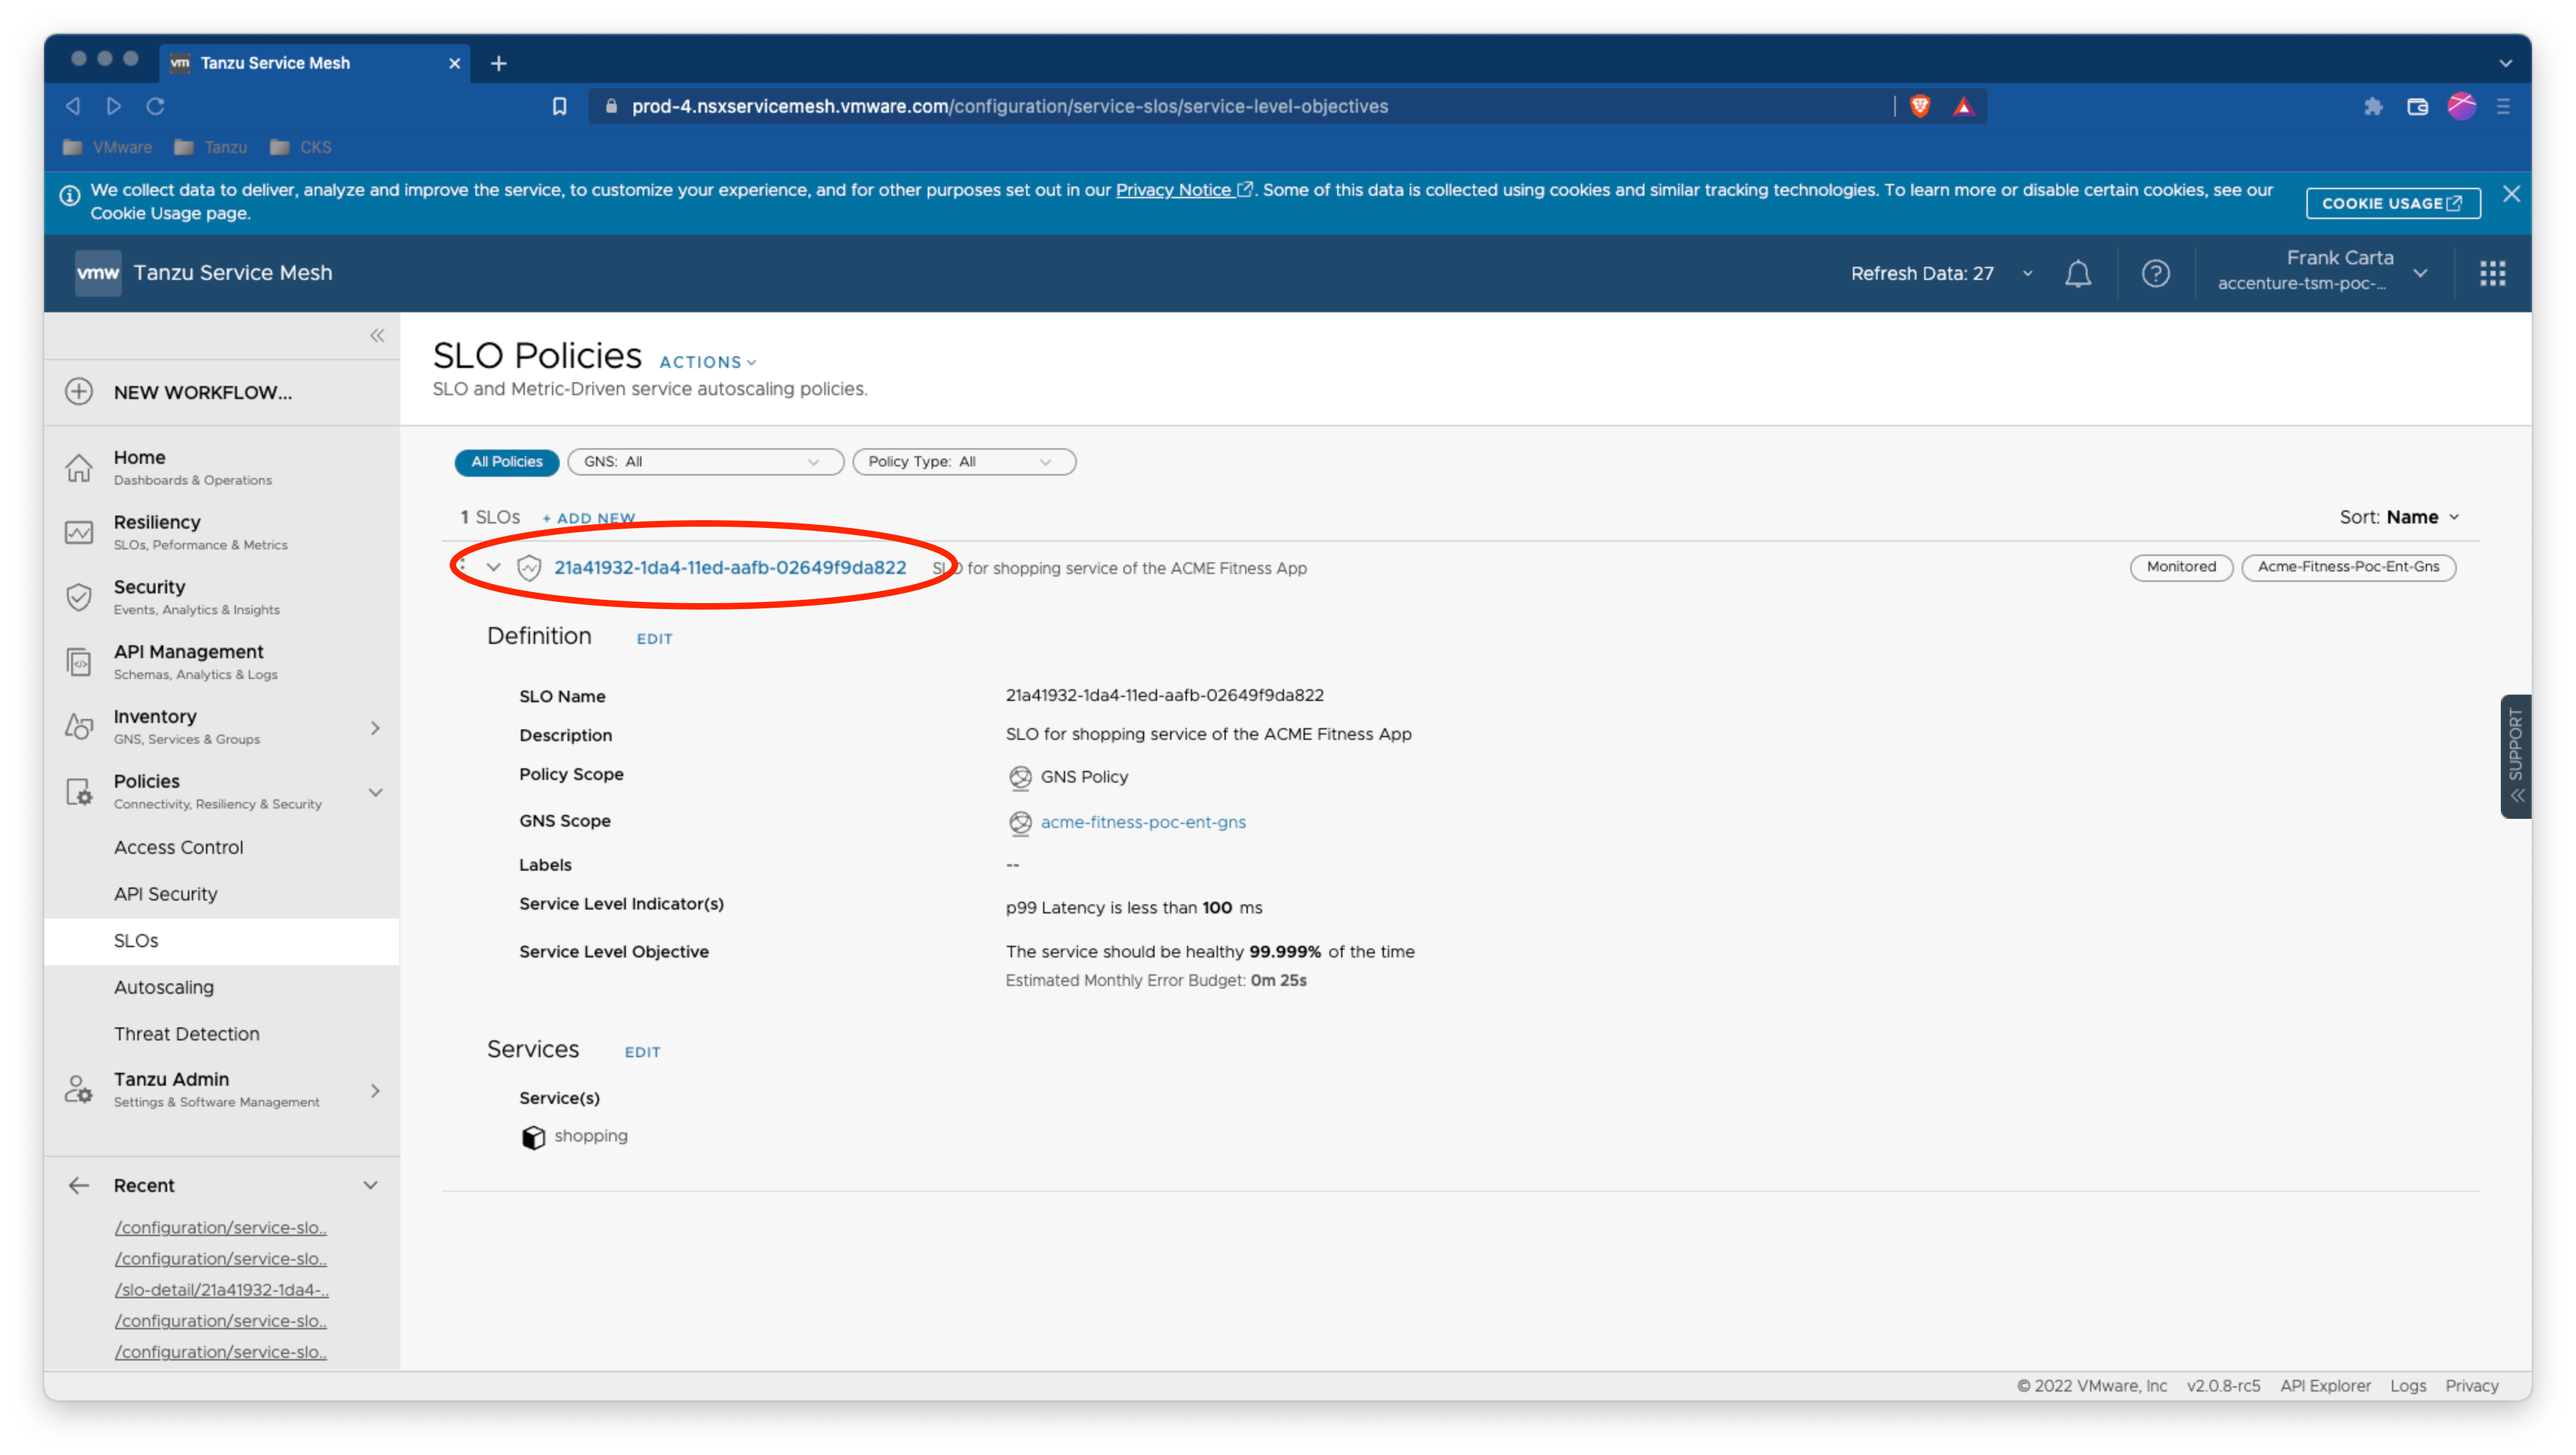
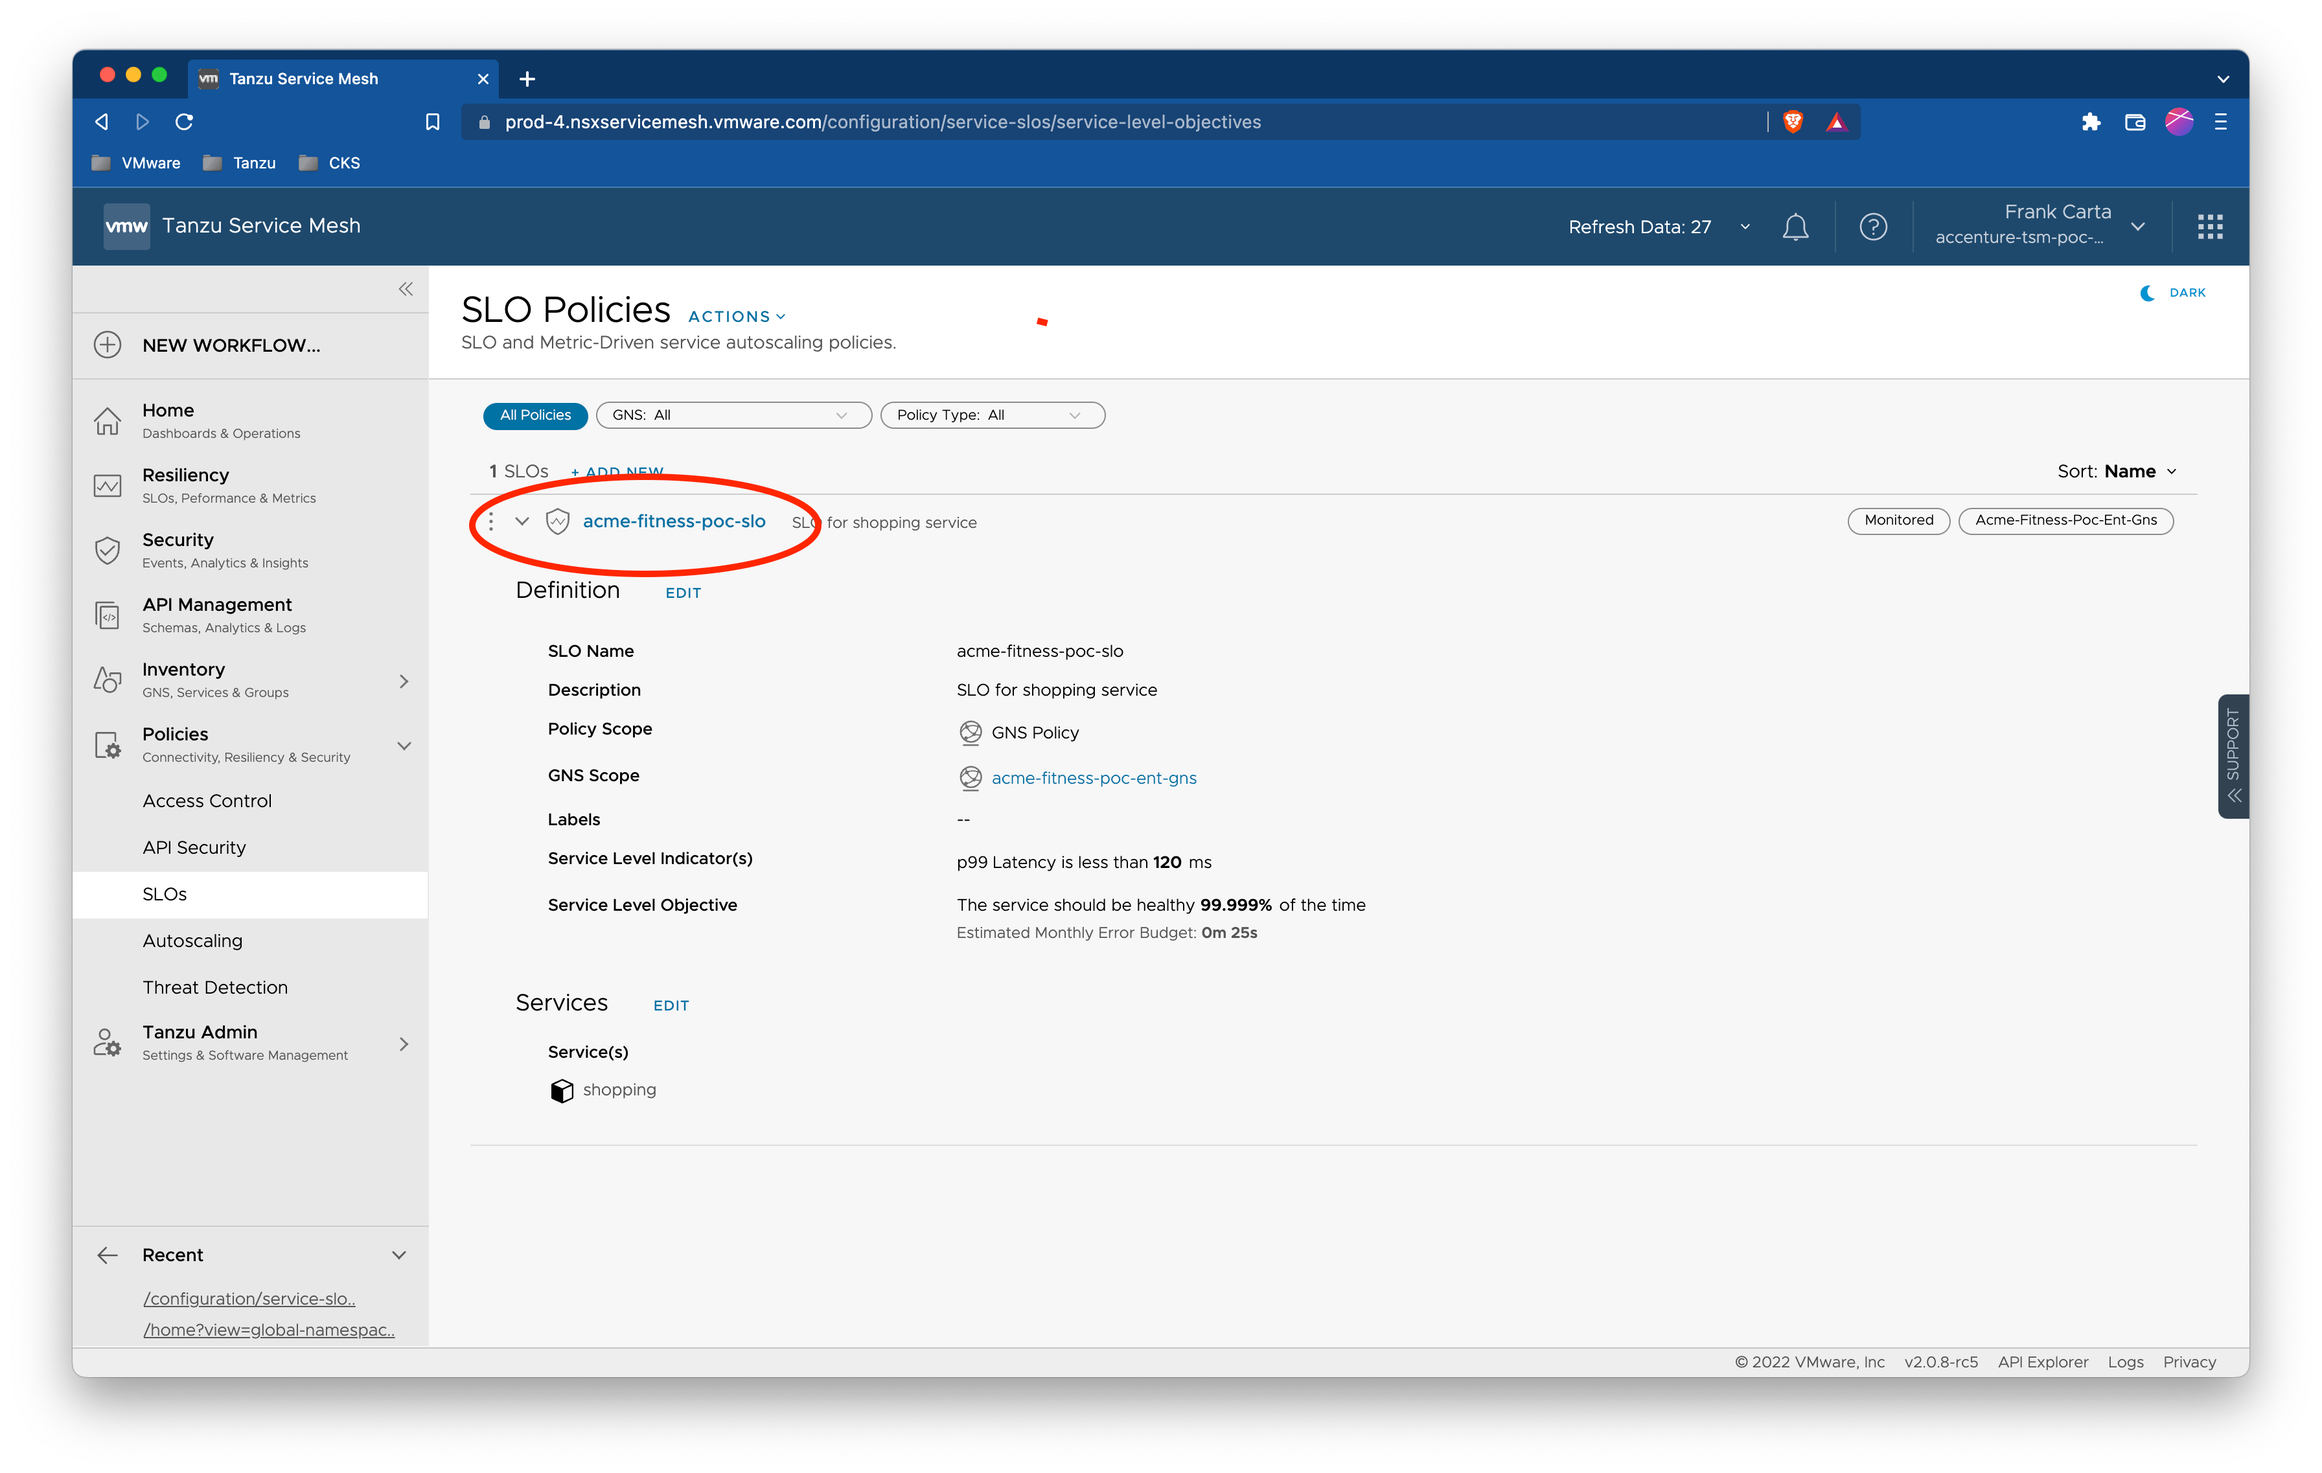
Cleaning up SLO creation with PUT method and new images

diff --git a/scenarios/sc06-application-performance/sc06-tc02-service-slo-api.md b/scenarios/sc06-application-performance/sc06-tc02-service-slo-api.md
@@ -72,14 +72,14 @@ This test procedure assumes that the full ACME Fitness Application was deployed 
     ![VMware SLO Policy](../images/vmware-tsm-app-topology-p99-latency.png)
 
     ```bash
-    curl -k -X POST "https://${TSM_SERVER_NAME}/tsm/v1alpha1/global-namespaces/${TSM_GLOBALNAMESPACE_NAME}/service-level-objectives" -H "csp-auth-token:${CSP_AUTH_TOKEN}" -H "Content-Type: application/json" -d '
+    curl -k -X PUT "https://${TSM_SERVER_NAME}/tsm/v1alpha1/global-namespaces/${TSM_GLOBALNAMESPACE_NAME}/service-level-objectives/${TSM_SLO_NAME}" -H "csp-auth-token:${CSP_AUTH_TOKEN}" -H "Content-Type: application/json" -d '
     {
         "type": "MONITORED",
         "description": "SLO for shopping service of the ACME Fitness App",
         "labels": [],
         "basic_options": [{
             "metricName": "p99LATENCY",
-            "value": 100
+            "value": 120
         }],
         "slo_target_value": 99.999,
         "slo_period": {
@@ -101,7 +101,7 @@ This test procedure assumes that the full ACME Fitness Application was deployed 
         "basic_options": [
             {
             "metricName": "p99LATENCY",
-            "value": 100
+            "value": 120
             }
         ],
         "slo_target_value": 99.9990005493164,
@@ -114,28 +114,26 @@ This test procedure assumes that the full ACME Fitness Application was deployed 
             "name": "shopping"
             }
         ],
-        "id": "21a41932-1da4-11ed-aafb-02649f9da822",
+        "id": "${TSM_SLO_NAME}",
         "creationTime": "2022-08-16T20:43:49.492Z"
     }
     ```
 
-    > **_NOTE:_**  Currently via the TSM REST API you cannot set the name like you can via the TSM UI. The display name in the TSM UI will be the `id` field.
-
-5. Validate in TSM UI SLO is created by navigating on the left side menu to `Policies > SLOs`. To view the SLO metrics click on the name (or UUID of the previously created SLO).
+5. Validate in TSM UI SLO is created by navigating on the left side menu to `Policies > SLOs`. To view the SLO metrics click on the SLO name.
 
     Expected:
 
     ![VMware SLO Policy](../images/vmware-tsm-slo-policy.png)
 
-    A dialog window showing the details of the SLO will popup.
+6. Validate the SLO metrics are displaying for the `shopping` service. First navigate to the `shopping` service dashboard by using the left side menu to `Inventory > Services` and clicking on the `shopping` service. From the `shopping` service dashboard select the `Performance` tab
 
-    ![VMware SLO Policy Dialog](../images/vmware-tsm-slo-policy-dialog.png)
+    Expected:
 
-    From the SLO dialog click on the `Full Page` link to get the SLO status page.
+    ![VMware Inventory Services - Shopping](../images/vmware-tsm-inventory-service-shopping.png)
 
-    ![VMware SLO Policy Status](../images/vmware-tsm-slo-status.png)
+    ![VMware Inventory Services - Shopping](../images/vmware-tsm-shopping-performance-slo.png)
 
-6. Generate traffic to the ACME Fitness Application to violate the newly created SLO from previous steps. Fire up the locust traffic generator application using the given locust file `/scenarios/files/acme-fitness-app/loadgen/locustfile.py` supplied with this project. Its best to start locust in distributed mode with 2 workers. If working from the supplied Management container, to start up locust in distributed worker mode with 2 workers, you can run the following in seperate windows/tabs:
+7. Generate traffic to the ACME Fitness Application to violate the newly created SLO from previous steps. Fire up a locust traffic generator application using the given locust file in `/scenarios/files/acme-fitness-app/loadgen/locustfile.py` supplied with this project. Its best to start locust in distributed mode with 2 workers. If working from the supplied Management container, to start up locust in distributed worker mode with 2 workers, you can run the following in seperate windows/tabs:
 
     master
 
@@ -159,8 +157,7 @@ This test procedure assumes that the full ACME Fitness Application was deployed 
     [2022-08-16 21:19:05,762] cf6bf3632b3f/INFO/locust.main: Starting Locust 2.8.6
     </pre>
 
-
-7. Open Browser to locust running on `http://localhost:8089` and configure it with enough users to raise the ACME Fitness application latency for the `shopping` service above `100ms`.
+8. Open Browser to locust running on `http://localhost:8089` and configure it with enough users to overwhelm the ACME Fitness application and drive up the latency for the `shopping` service above configured SLO value for `p99LATENCY`.
 
     > **_NOTE:_**  Depending on your testing environment SLO latency and user count may differ a bit. You may have to alter them a bit to generate a SLO violation.
 
@@ -170,21 +167,15 @@ This test procedure assumes that the full ACME Fitness Application was deployed 
 
     ![Traffic Generation Locust - Statistics](../images/traffic-gen-locust-statistics.png)
 
-8. After about a minute of load generation from the previous step, navigate to the GNS performance metrics via the TSM UI. Scroll down to the `P99 Latency` metric and observe the rise in wait time for the `shopping` service as the number of requests increases.
+9. After a few minutes of load generation from the previous step, go back to the TSM UI and the `shopping` service's `Performance` dashboard. Validate that the `shopping` service response latency increases with the increase in requests and as a result violates the configured SLO.
 
-    ![TSM GNS Performance](../images/vmware-tsm-gns-performance.png)
-
-    Expected:
-
-    ![TSM GNS Performance - latency rising](../images/vmware-tsm-gns-performance-p99-latency.png)
-
-9. In the TSM UI navigate back to the `SLO Status` page and view the SLO violation for `P99 Latency` of the shopping service.
-
-    ![TSM SLO Status](../images/vmware-tsm-slo-status.png)
+    > **_NOTE:_**  Its best to set the `Metric Time Range` to 5 or 10 minutes to easily see the latest violations.
 
     Expected:
 
-    ![TSM SLO Status - P99 Latency Violation](../images/vmware-tsm-slo-p99-latency-violation.png)
+    ![TSM GNS Performance](../images/vmware-tsm-shopping-service-performance-slo-violation.png)
+
+10. When satisfied with testing remember to shutdown traffic generation.
 
 ---
 
